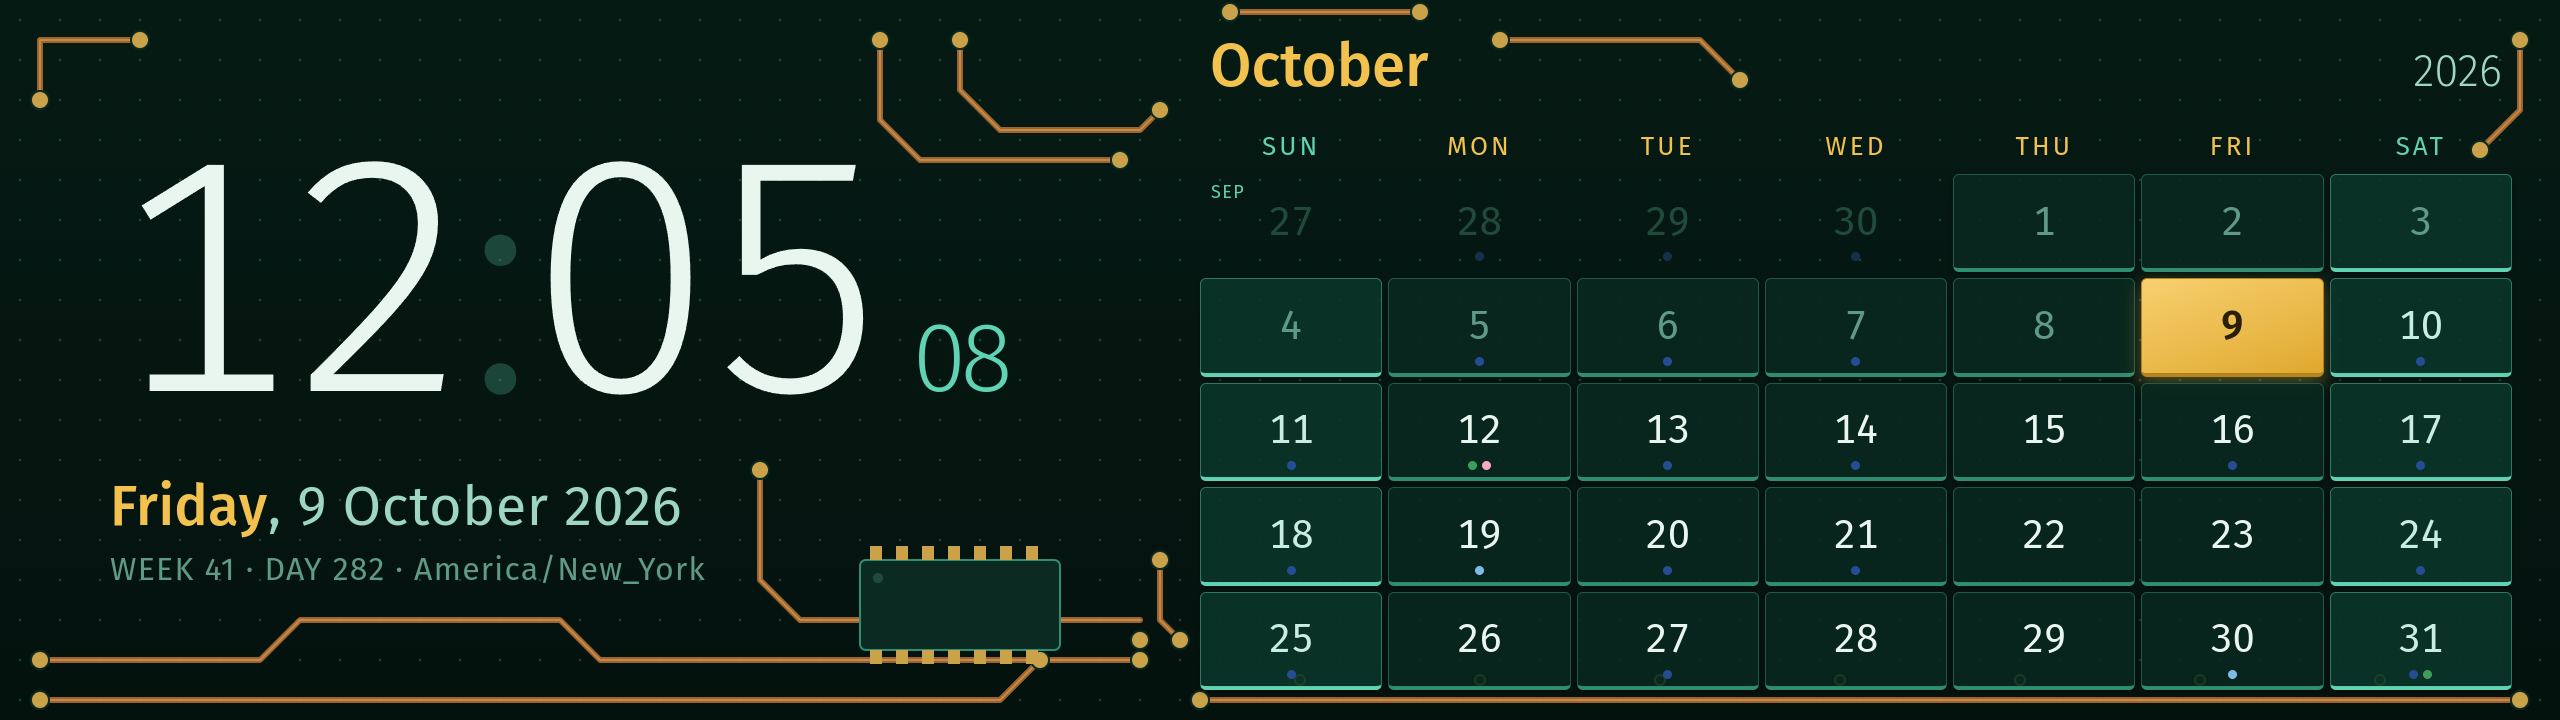
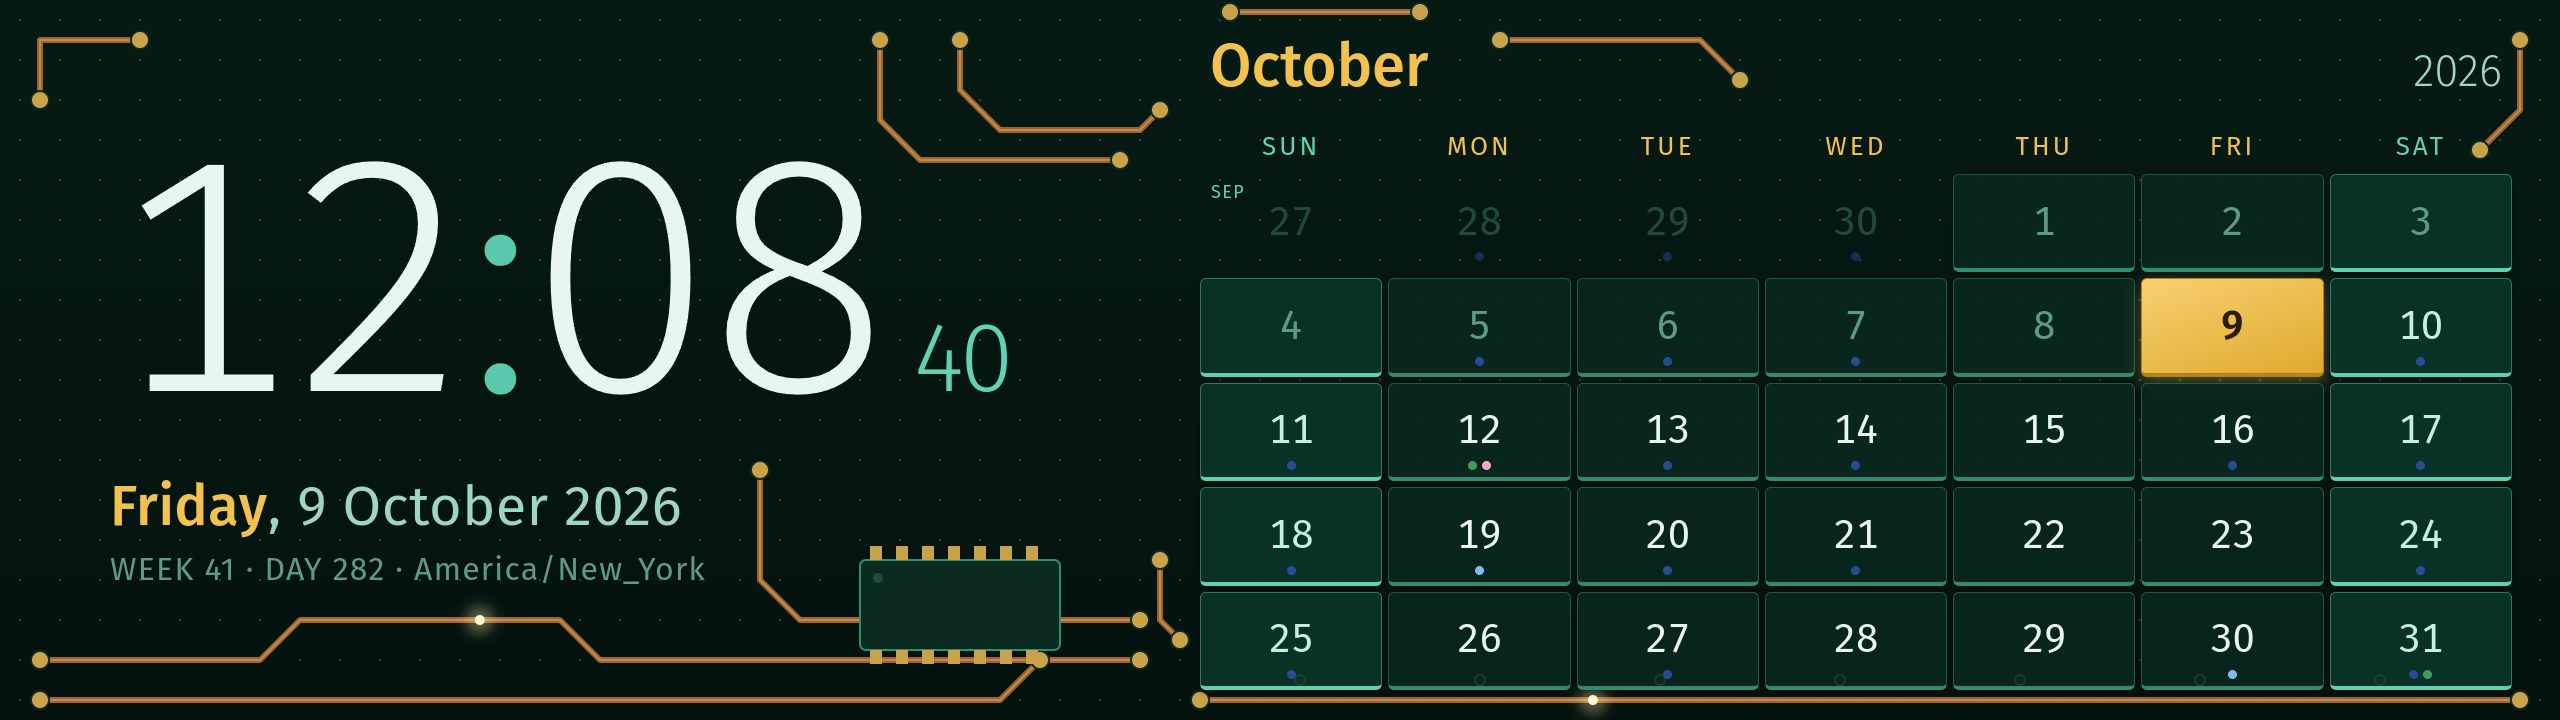
tron: passing light cycles; circuit: energy pulses on the traces
Both are SMIL animations inside scene.svg, so the themes stay script-free. Tron gets
a distant cyan cycle crossing the horizon every ~35 s and a nearer orange one the
other way every ~48 s, each trailing a fading light ribbon. Circuit gets glowing
pulses that run the copper traces on staggered timers. THEMES.md notes the idiom.

diff --git a/THEMES.md b/THEMES.md
@@ -53,6 +53,10 @@ and calendar. Things to know about the layout it sits under:
 - The bottom strip below y ≈ 600 is a good place for ground, water or hills: cards
   float over it and it shows fully under the clock.
 - Everything in the scene dims to `--scene-dim` while a day is held.
+- The SVG may animate itself with SMIL (`<animate>`, `<animateTransform>`,
+  `<animateMotion>` + `<mpath>`), which keeps themes script-free. `themes/tron` uses
+  it for passing light cycles and `themes/circuit` for pulses that travel the traces;
+  `begin="3s; id.end+11s"` is the idiom for "every so often".
 
 ## 3. `theme.json` — particles
 
